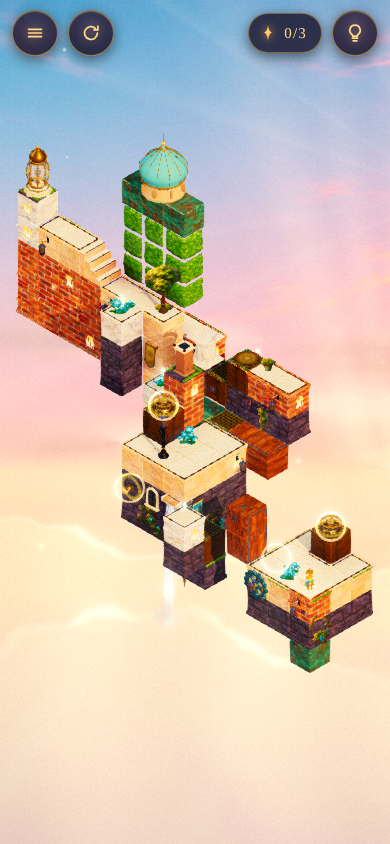
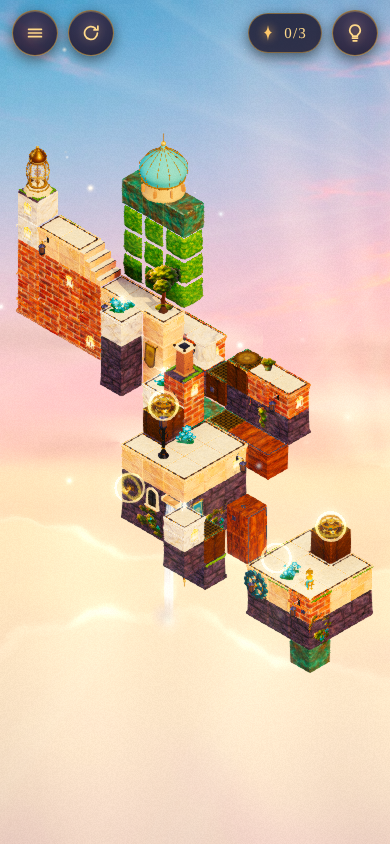
Spirelight: engine perf pass (shadow proxies, static decor batching, tier caps)
Level 10 at the high tier drops from 332 to 171 draw calls and the
shadow pass from ~87 to ~7.

Claude-Session: https://claude.ai/code/session_01KHq9E4PP77B82NWFRYgzJt

diff --git a/spirelight/design/qa/review-lead/probe-drag.js b/spirelight/design/qa/review-lead/probe-drag.js
@@ -1,0 +1,32 @@
+// Review-lead drag probe: fresh page, level N (1-based), group id; drags the handle in 4 directions and reports value.
+// node design/qa/review-lead/probe-drag.js [test|notest] [level] [group]
+const path = require("path");
+const { open } = require("../../../tools/harness");
+const sleep = ms => new Promise(r => setTimeout(r, ms));
+(async () => {
+  const mode = process.argv[2] || "test", lvl = +(process.argv[3] || 2), gid = process.argv[4] || "turntable";
+  const h = await open(`index.html?${mode === "test" ? "test&" : ""}level=${lvl}`, { w: 390, h: 844, dpr: 1 });
+  const P = h.page;
+  await P.waitForFunction(() => window.Game && Game.ready && Game.state === "play", null, { timeout: 90000 });
+  await sleep(mode === "test" ? 1500 : 5000);
+  await P.evaluate(() => { window.__ev = []; ["mechGrab", "mechMove", "mechSnap", "mechLocked", "tap"].forEach(n => Game.bus.on(n, d => { if (n !== "mechMove" || window.__ev.filter(e => e[0] === "mechMove").length < 3) window.__ev.push([n, JSON.stringify(d).slice(0, 80)]); })); });
+  const hs = await P.evaluate(g => Game.handleScreen(g), gid);
+  const topEl = await P.evaluate(([x, y]) => { const e = document.elementFromPoint(x, y); return e ? e.tagName + "." + e.className : null; }, [hs.x, hs.y]);
+  console.log("handle", JSON.stringify(hs), "topmost element:", topEl, "state", await P.evaluate(() => Game.state));
+  for (const [name, dx, dy] of [["right", 80, 0], ["left", -80, 0], ["down", 0, 80], ["up", 0, -80], ["upright", 60, -40], ["downleft", -60, 40]]) {
+    await P.evaluate(g => Game.setMech(g, Game.groups[g].values[0]), gid); await sleep(800);
+    await P.mouse.move(hs.x, hs.y); await P.mouse.down();
+    for (let k = 1; k <= 12; k++) { await P.mouse.move(hs.x + dx * k / 12, hs.y + dy * k / 12); await sleep(25); }
+    await sleep(100);
+    const cur = await P.evaluate(g => Game.groups[g].cur, gid);
+    await P.mouse.up(); await sleep(1200);
+    console.log(name, "cur during drag", Math.round(cur), "snapped", await P.evaluate(g => Game.groups[g].value, gid));
+  }
+  // single tap on handle -> step
+  await P.evaluate(g => Game.setMech(g, Game.groups[g].values[0]), gid); await sleep(800);
+  await P.mouse.click(hs.x, hs.y); await sleep(1500);
+  console.log("tap on handle ->", await P.evaluate(g => Game.groups[g].value, gid));
+  console.log("events", JSON.stringify(await P.evaluate(() => window.__ev.slice(0, 14))));
+  console.log(h.errors.length ? "ERRORS:\n" + [...new Set(h.errors)].slice(0, 20).join("\n") : "errors: none");
+  await h.close();
+})().catch(e => { console.error("FAIL", e.message); process.exit(1); });

diff --git a/spirelight/js/engine.js b/spirelight/js/engine.js
@@ -329,6 +329,10 @@
       scene.traverse(function (o) { if (o.material) { var m = o.material; (Array.isArray(m) ? m : [m]).forEach(function (mm) { mm.needsUpdate = true; }); } });
     }
     fpsReset();
+    if (changed && !silent && Game.level && Game.geom) safe(function () { // decor caps / shadow proxies depend on the tier: rebuild if nothing has been played yet
+      var fresh = Game.state === "title" || (Game.state === "play" && heroW.tile === Game.geom.startId && !heroBusy() && Object.keys(Game.groups).every(function (id) { var g = Game.groups[id]; return g.state === "idle" && g.value === (g.def.rotor ? g.def.rotor.start : g.def.slider ? g.def.slider.start : 0) || g.kind === "static"; }));
+      if (fresh) loadLevel(Game.level);
+    }, "tier reload");
     if (changed && !silent) emit("quality", { level: eff });
   }
   function fpsReset() { fpsAcc = 0; fpsN = 0; fpsT = 0; lastGood = Game.time; }
@@ -736,6 +740,13 @@
     Object.keys(Game.groups).forEach(function (id) { applyGroup(Game.groups[id]); });
     levelRoot.updateMatrixWorld(true);
     safe(function () { mergeDecor(def, theme); }, "mergeDecor");
+    if (Game.quality !== "high") safe(function () { // sprites (halos, rays, mist) cannot batch: thin them out on weaker tiers
+      Game.decor.forEach(function (e) {
+        var keep = (e.item.type === "glimmer" || e.item.type === "beacon") ? (Game.quality === "medium" ? 2 : 1) : 0, n = 0, rm = [];
+        e.object3D.traverse(function (o) { if (o.isSprite && ++n > keep) rm.push(o); });
+        rm.forEach(function (o) { if (o.parent) o.parent.remove(o); });
+      });
+    }, "sprite cap");
 
     // world / camera
     if (window.World && mods.world) {

diff --git a/spirelight/design/requests.md b/spirelight/design/requests.md
@@ -9,3 +9,7 @@ Append one line per request: `- [from → to] request`. The orchestrator relays 
 - [geometry → level designer] Tools: `node tools/solve.js --all`; `node tools/solve.js --level ID --svg design/qa/geom/ID.svg [--states solution|start|all|"g=90;g=180"] [--graph] [--samples]`; then `node tools/svgshot.js design/qa/geom/ID.svg` gives the PNG.
 - [decor → engine] Call `obj.userData.update(dt, t)` for every decor object each frame (lantern/window ramps, plant wind, banners, beacon, glimmer all live there). Handles: call `userData.setHint(false)` after first use, `setHover(on)` on hover, `spin(value)` while the mechanism moves. Lanterns/windows start UNLIT unless `lit: true` is in the item; FX cascades with `setLit(true)`; beacon `ignite()`.
 - [decor → levels] Wall types (lantern, window, banner, clock, waterfall, ivy, vines, gear-on-wall) are placed on a side face ("+z"/"+x"...). Floor types use `face:"+y"`. `rail` and `pipe`/`railing` take a world `dir`/`side`; `rail` needs `len` cells from the handle cell.
+- [engine → decor] DRAW CALLS (level 10 sits at 171 scene calls at high; budget 150). The engine now bakes the STATIC meshes of all decor per (material, group) at level load (it probes a throw-away copy: any mesh whose transform/visibility/material changes under update/spin/setLit/press/ignite/collect/setHover/setHint stays dynamic). What is left are Sprites, which can never batch: glimmer = 9 visible sprites + 4 meshes each (27 calls for 3 glimmers), beacon = 8 ray sprites + 3 meshes (11 calls), waterfall = 5 sprites + 2 shader meshes (7), flowers = 2 sprites each (8 for 4), lantern/window/handle 2-4 each. Please: (1) glimmer: ONE THREE.Points (sprite texture, per-point size via a tiny ShaderMaterial) for all its sparkles/halos, plus at most 2 meshes: target <=3 calls per glimmer; (2) beacon: rays as ONE mesh of crossed quads with a shared additive material, target <=6 calls; (3) waterfall: foam/mist as one Points or one merged quad mesh, target <=3; (4) flowers: halos as one Points per item (or drop halos at ctx.quality "medium"/"low"); (5) keep the dynamic part of each prop in as FEW meshes as possible (the engine merges only meshes that never move), e.g. keep rotating parts (lantern sway group, gear teeth, crank arm) separate from the static housing, and never toggle mesh.visible/material in setLit when an emissive colour/intensity change on a shared material would do. Also: honour ctx.quality "medium"/"low" by dropping sprites/halos.
+- [engine → blocks] Blocks meshes are fine for the main pass (16 calls for the biggest group), but the engine now replaces their shadow casting with ONE position-only proxy per group (layer 1, shadow camera only), so please keep `castShadow` meaningful (true only on opaque meshes), mark cutout/transparent meshes with material.transparent or alphaTest so they are skipped, and avoid per-material proliferation: merging trim/paver/moss variants into fewer materials (atlas or vertex colours) would cut the main pass (level 10 base group = 16 calls, bridge/lift/draw/elevator 3-5 each).
+- [engine → hero] Thanks: 11 calls + 1 shadow call is within budget. Engine now calls hero.teleport() at every impossible-join jump and on level load/restart. If you can, trim further to <=8 draw calls (merge the glass/flame/scarf layers that share a material); hero tris show ~105k in the shadow-inclusive counter, check whether the skinned mesh is drawn into the shadow pass at all (the engine only keeps one shadow caster; castShadow should be true on the body mesh only).
+- [engine → world] 8 draw calls for sky/cloud layers: if some layers share a texture/material, merge them (e.g. one cloud mesh with per-vertex tint); at ctx tier "low" use <=4.

diff --git a/spirelight/design/qa/review/qa.md b/spirelight/design/qa/review/qa.md
@@ -1,0 +1,39 @@
+# SPIRELIGHT QA review
+
+Date: 2026-11-06. Branch `ccr-26285320-7spz0v`. No game files were edited and nothing was committed.
+
+## Method
+
+- **Solutions:** each level ran its built-in solution with `Game.runSolution(i-1)` on `index.html?test` at 1280x720, one level at a time, using the shared harness. The "ms" column is the engine's own solution time. `tests/engine-run.js` was not used directly because it writes `tests/engine-index.html` and `design/qa/engine/`, both outside the allowed output path. The same loop was run from a scratchpad script that writes nothing into the repo.
+- **Start screens:** `tools/shot.js` on `index.html?test&level=N` with `--wait 3000`. Portrait is 390x844 at dpr 2, landscape is 1280x720. Calls and tris are read from `Game.debug()` at capture time.
+- **Title:** `index.html`, `--wait 4000`, same two sizes.
+
+## Results
+
+| Level | id | Solution ok / ms | Portrait calls / tris | Landscape calls / tris | Errors |
+|---|---|---|---|---|---|
+| L1 | first-light | ok / 11572 | 92 / 157880 | 90 / 157872 | none |
+| L2 | turning-stair | ok / 19523 | 92 / 146763 | 91 / 146761 | none |
+| L3 | sky-bridge | ok / 11974 | 101 / 148899 | 97 / 148891 | none |
+| L4 | lamp-lift | ok / 20193 | 103 / 165555 | 101 / 165555 | none |
+| L5 | chime-stair | ok / 42781 | 120 / 172837 | 118 / 172837 | none |
+| L6 | twin-drawbridges | ok / 43492 | 125 / 172659 | 123 / 172651 | none |
+| L7 | veiled-steps | ok / 19464 | 109 / 170871 | 109 / 170871 | none |
+| L8 | greenhouse-spire | ok / 32019 | 136 / 174250 | 138 / 174250 | none |
+| L9 | clock-spiral | ok / 36916 | 146 / 187702 | 142 / 187694 | none |
+| L10 | beacon-spire | ok / 57868 | 171 / 198839 | 169 / 198839 | none |
+| Title | (no level) | n/a | 101 / 155501 | 101 / 155501 | none |
+
+All ten solutions reached `state: complete`. No console errors, page errors, or HTTP 4xx/5xx responses were logged in the solution runs or in the 22 start-screen captures. L10 took 57.9 s, close to the 60 s budget.
+
+Screenshots are in `/home/user/my-first-repo/spirelight/design/qa/review/`: `L{1-10}-p.png`, `L{1-10}-l.png`, `title-p.png`, `title-l.png`.
+
+## Visual problems
+
+Nothing was broken in the sense of missing textures, black or blank areas, invisible Wick, or a level cut off by the screen edge. The Wick is visible in every level capture, though it is small in `L10-l.png`. The problems below are minor.
+
+1. **Title wordmark collides with the tower art (landscape).** In `title-l.png`, the final "T" of SPIRELIGHT runs into the left edge of the tower model.
+2. **Title wordmark and tagline sit over the spire (portrait).** In `title-p.png`, the lantern and chimney of the tower sit behind "LIGHT" and the tagline. It is legible but crowded.
+3. **Faint horizontal seam near the top edge.** In `L4-p.png`, `L5-p.png` and `L6-p.png` there is a visible change in sky tone about 100 px from the top. In `L4-l.png` and `L5-l.png` there is a fainter line near the top. This is probably the HUD backdrop edge. It needs checking on a real device.
+4. **Sun glare behind the top-right HUD (landscape).** In `L4-l.png`, `L5-l.png` and `L10-l.png` the sun glare sits under the glimmer counter and the hint button. This is cosmetic.
+5. **Small playfield in landscape L10.** In `L10-l.png` the tower occupies a narrow central column with a lot of empty sky, so the Wick and goal are small. The level is fully in frame.
